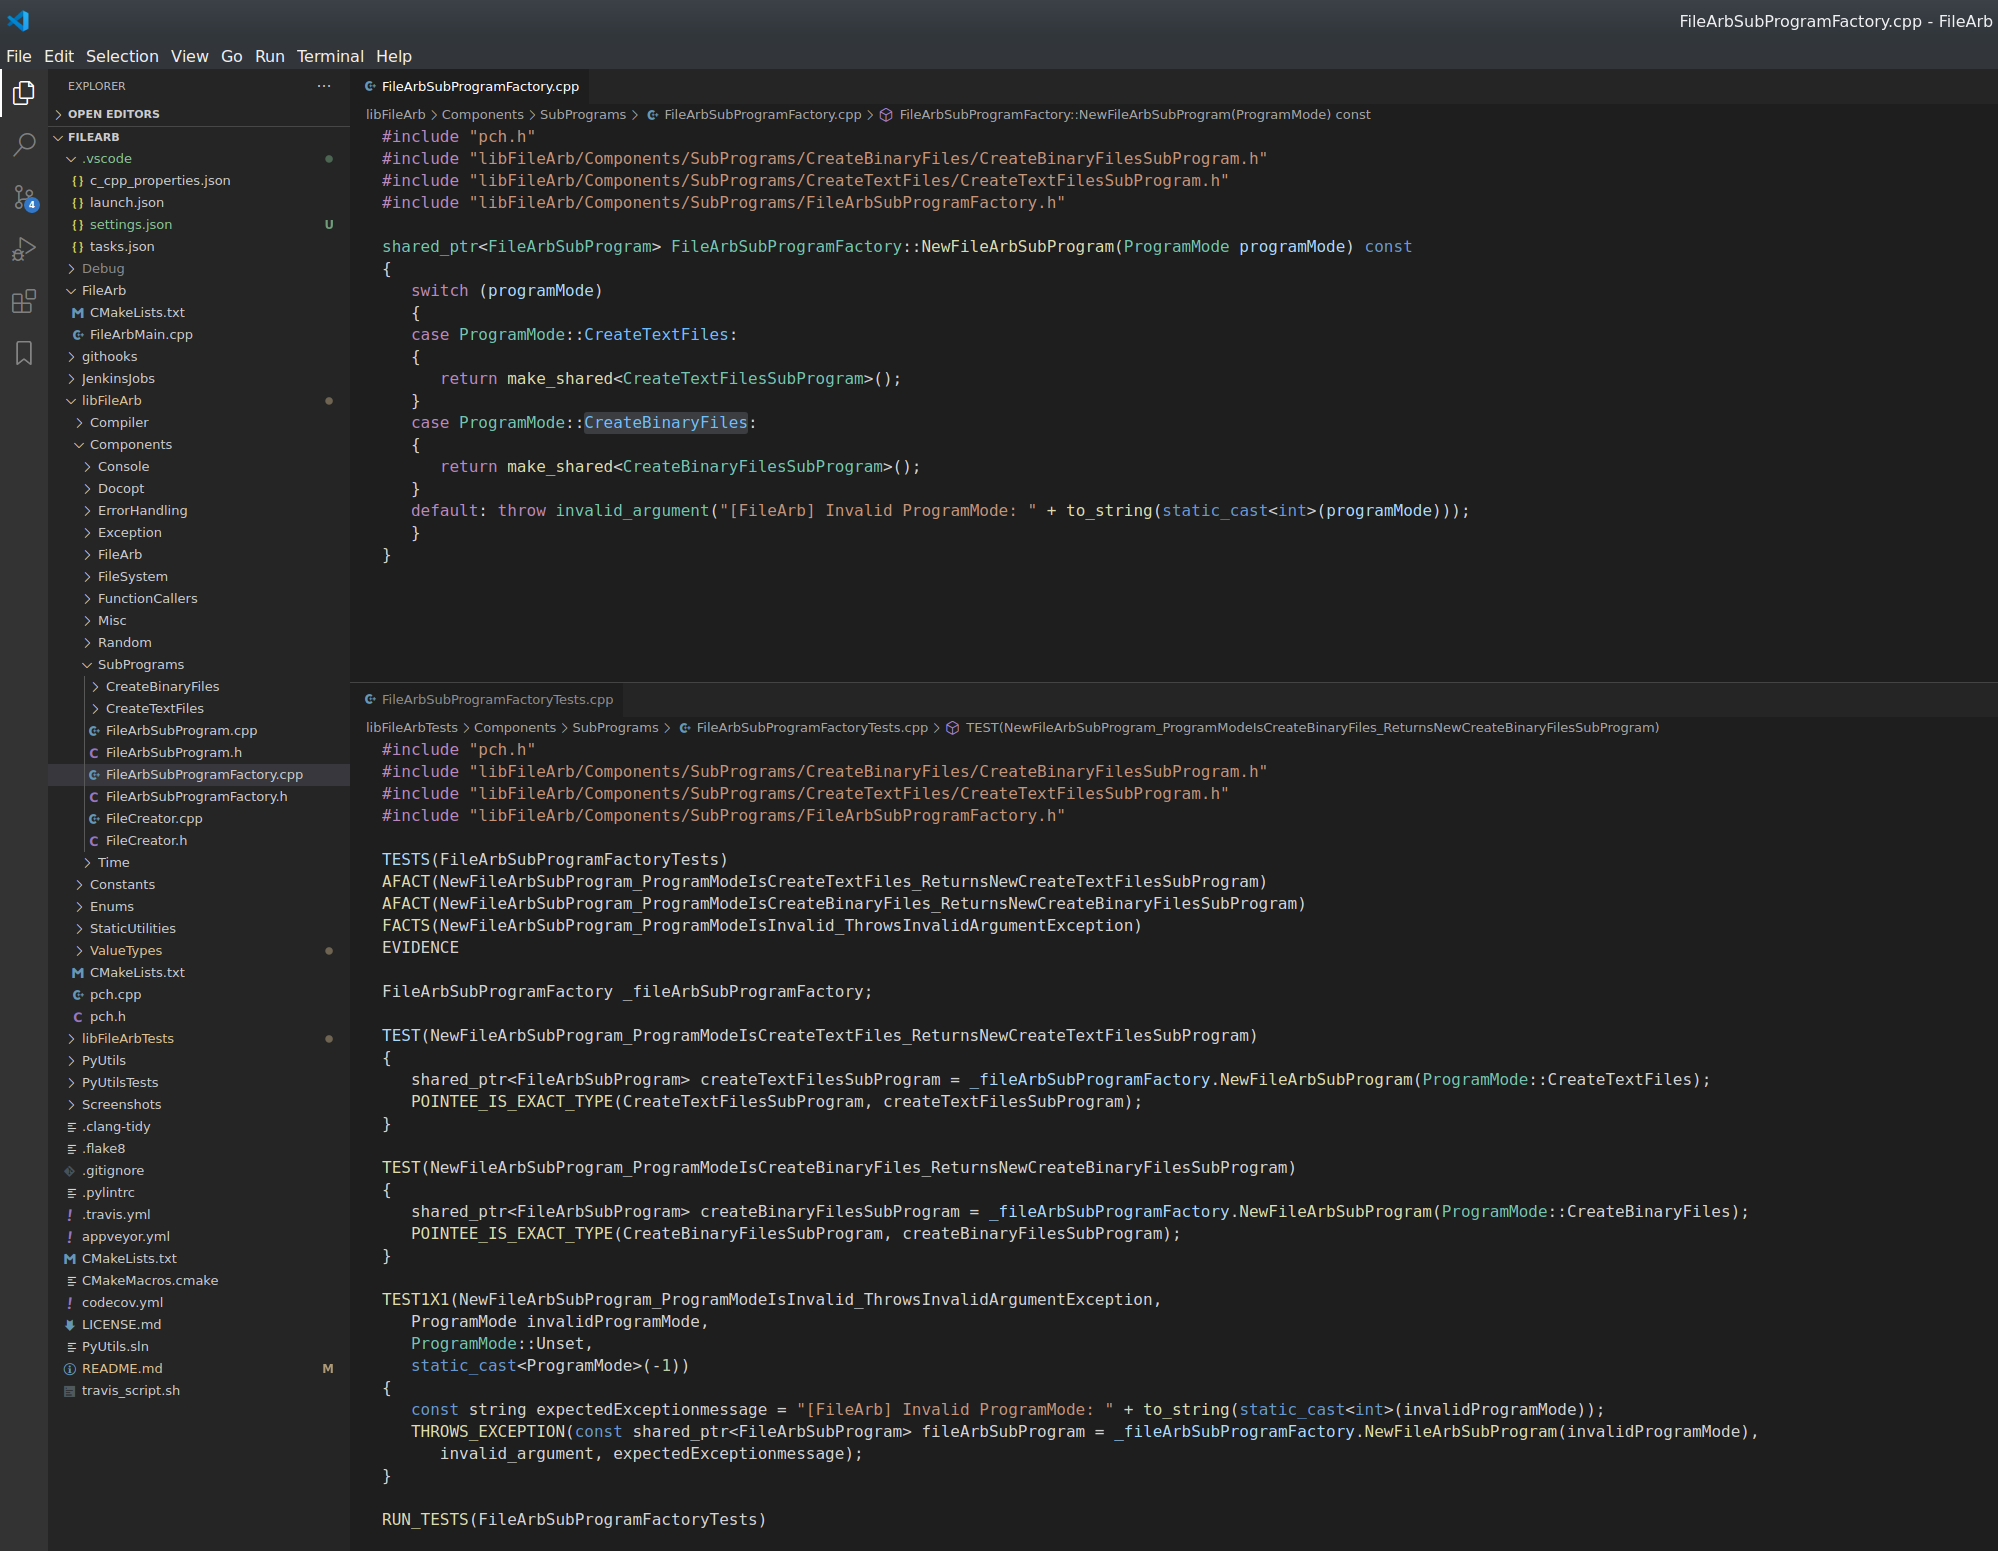
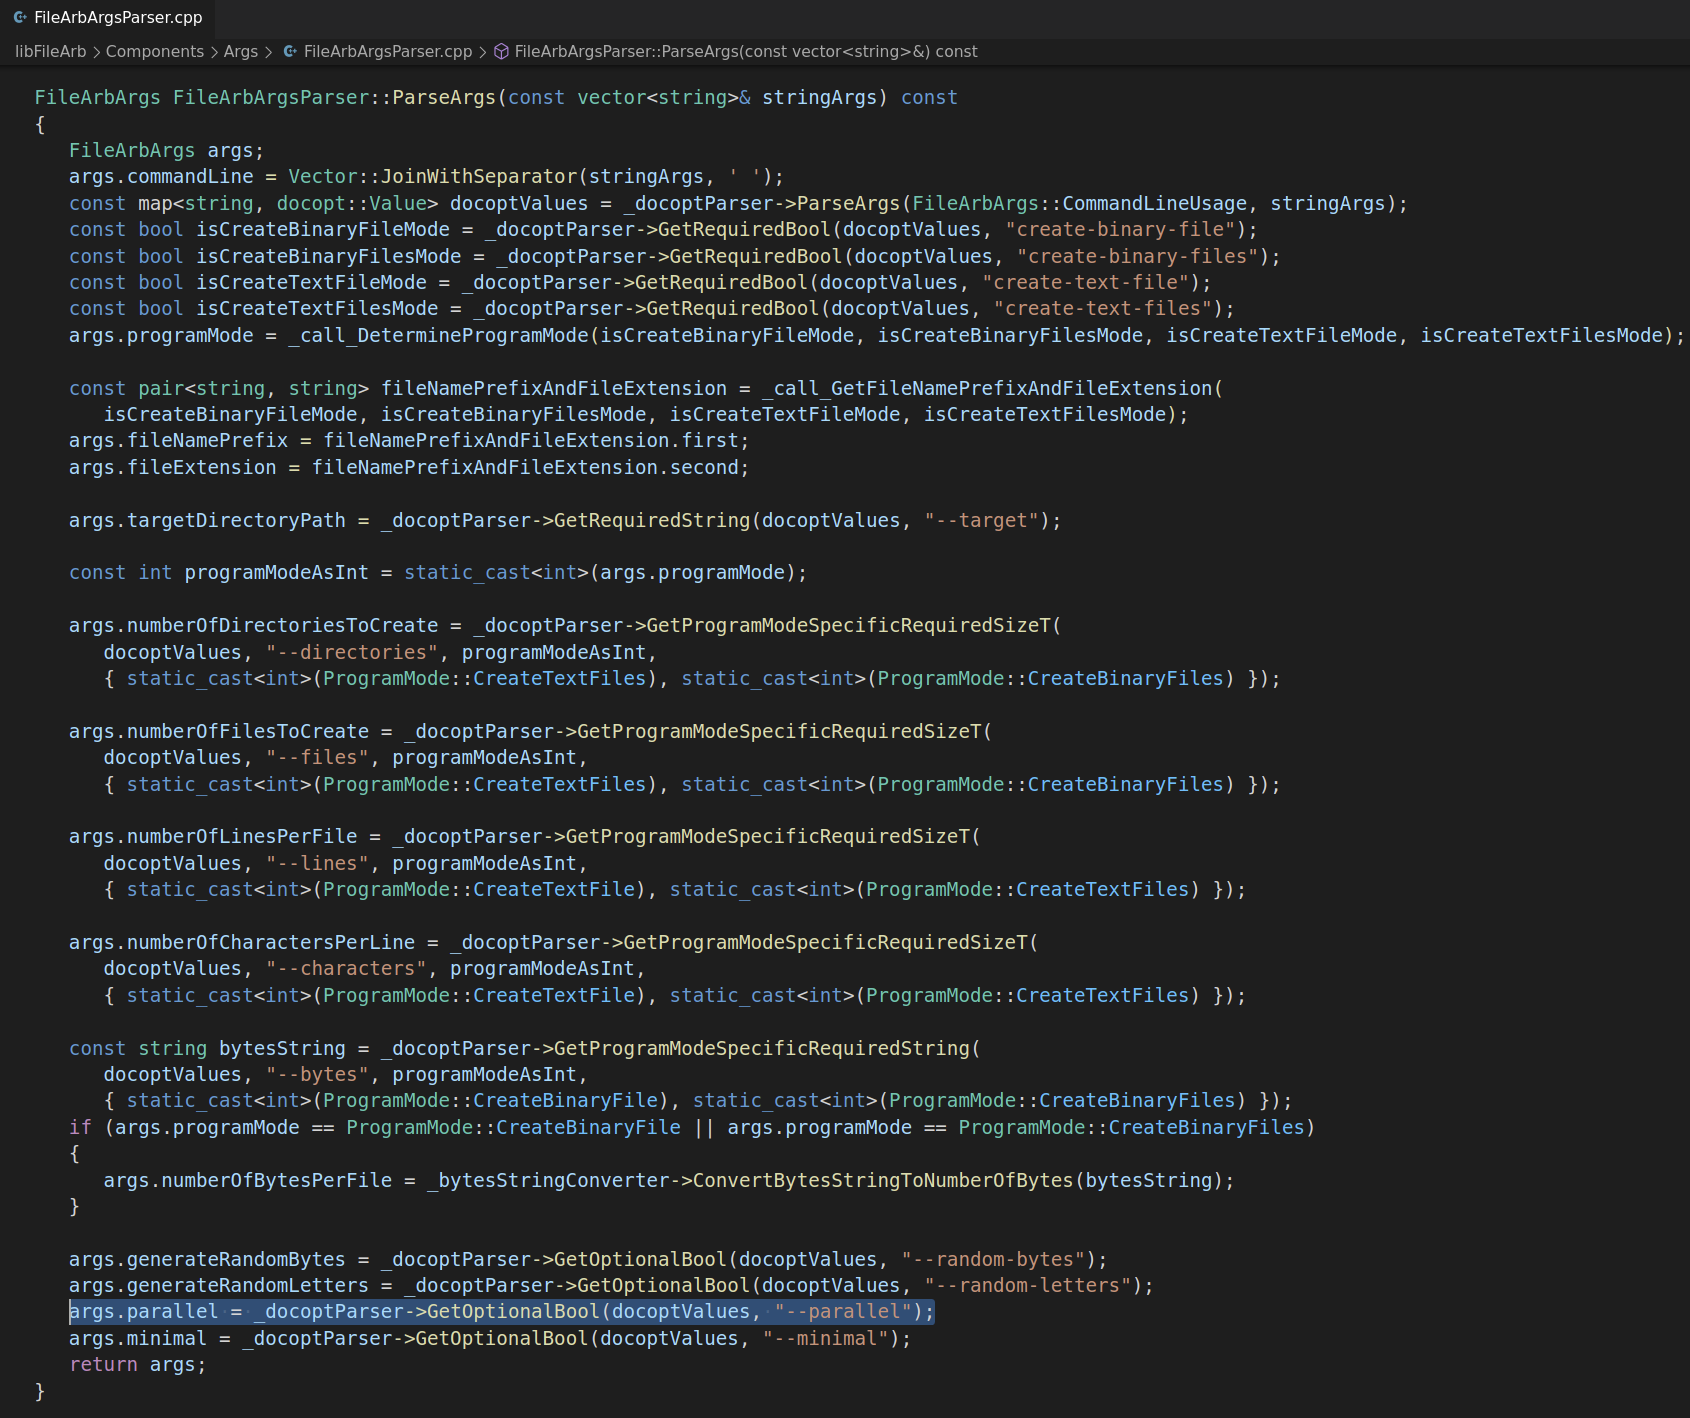
Update Visual Studio code screenshot

diff --git a/README.md b/README.md
@@ -143,6 +143,8 @@ FileArb program mode `create-text-files` creates at a specified directory a spec
 
 ## FileArb Code Structure As It Appears in Visual Studio Code On Linux
 
+Shown in this screenshot is function `FileArbArgsParser::ParseArgs` which uses the excellent single-header command line parsing library [docopt.cpp](https://github.com/docopt/docopt.cpp) to parse FileArb's command line arguments:
+
 ![FileArb Code Structure As It Appears In Visual Studio Code](Screenshots/Linux/FileArbCodeStructureAsItAppearsInVisualStudioCode.png)
 
 ## FileArb Code Structure As It Appears In Visual Studio 2019 On Windows
@@ -197,4 +199,4 @@ Resulting executable `C:\bin\FileArb.exe`:
 |SonarCloud Python badge for FileArbPyUtils|Awaiting implementation|
 |SonarCloud C++ badge|Awaiting implementation|
 |Coverity C++ static analysis badge|Awaiting implementation|
-|Automated acceptance testing|Awaiting implementation|
+|Automated acceptance testing of FileArb|Awaiting implementation|
